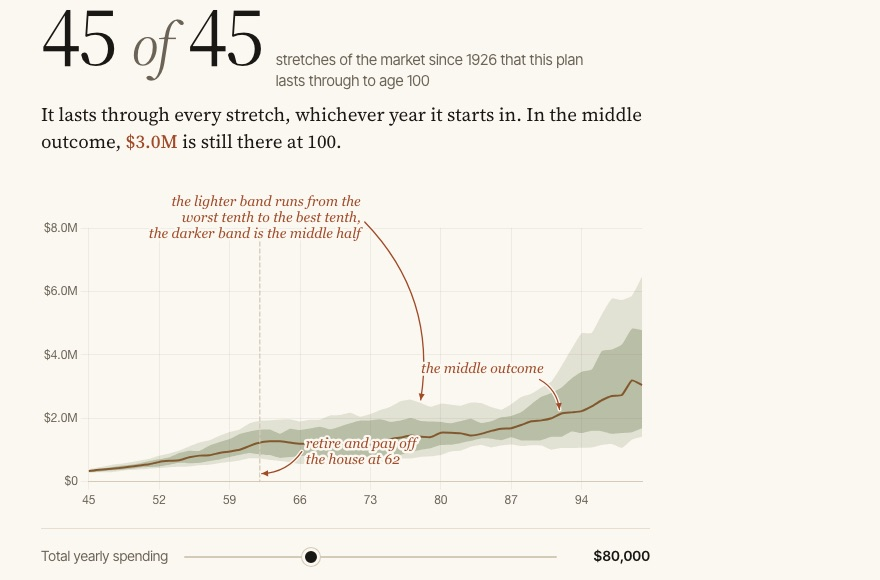
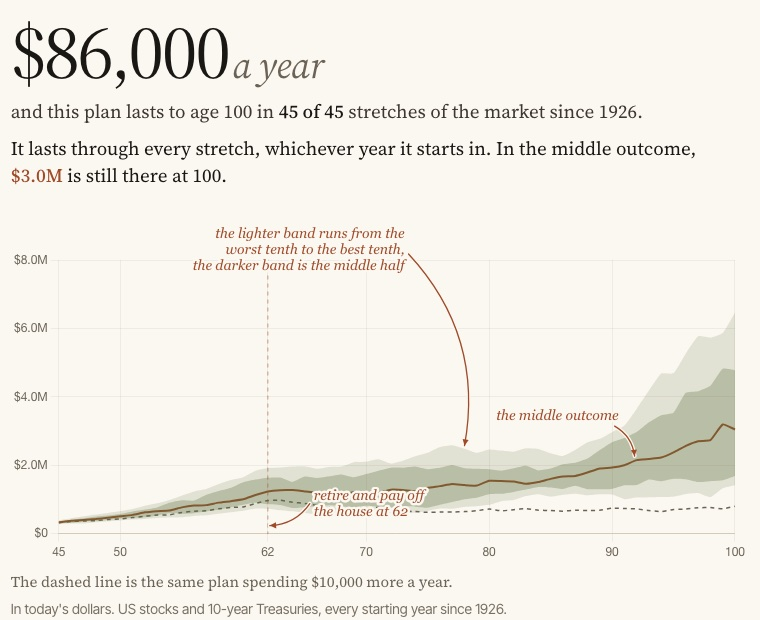
Work: new Spend Enough screenshots from the updated landing page
Hero crop is now the spending figure with the chart under it.

diff --git a/index.html b/index.html
@@ -94,7 +94,7 @@
     .hero-note b { font-weight: 500; color: var(--text-2); }
     .hero-shot { display: block; }
     .hero-shot .frame {
-      display: block; aspect-ratio: 880 / 580; overflow: hidden; border-radius: 8px;
+      display: block; aspect-ratio: 760 / 620; overflow: hidden; border-radius: 8px;
       border: 1px solid var(--line-strong); background: var(--bg-3);
     }
     .hero-shot img { width: 100%; height: 100%; object-fit: cover; display: block; }
@@ -290,7 +290,7 @@
           <p class="hero-note"><b>Taking new projects.</b> You'll hear back from one of us, usually the same day. No forms, no sales call required.</p>
         </div>
         <figure class="hero-shot">
-          <div class="frame"><img src="assets/work/spend-enough-chart.jpg" alt="A chart from Spend Enough showing a plan's range of outcomes from age 45 to 100, with the middle outcome drawn as a line" width="880" height="580"></div>
+          <div class="frame"><img src="assets/work/spend-enough-chart.jpg" alt="From Spend Enough: $86,000 a year, and a chart of the plan’s range of outcomes from age 45 to 100 with the middle outcome drawn as a line" width="760" height="620"></div>
           <figcaption>From <a href="https://spendenough.com" target="_blank" rel="noopener">Spend Enough</a>, a tool we built and run.</figcaption>
         </figure>
       </div>
